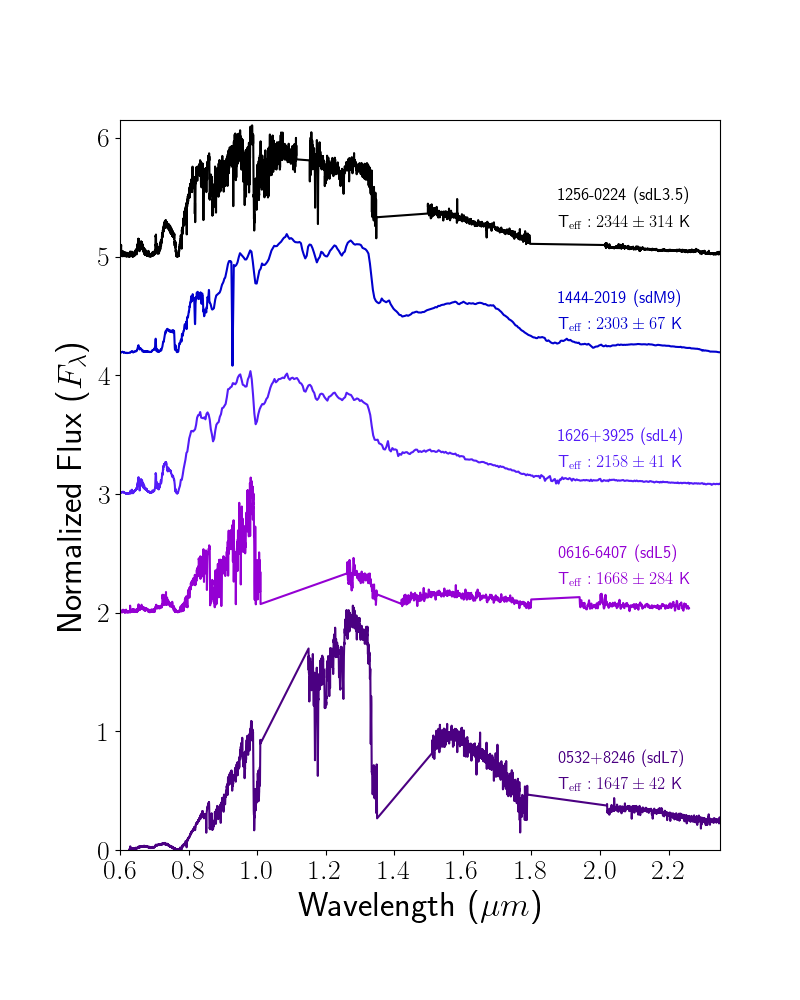
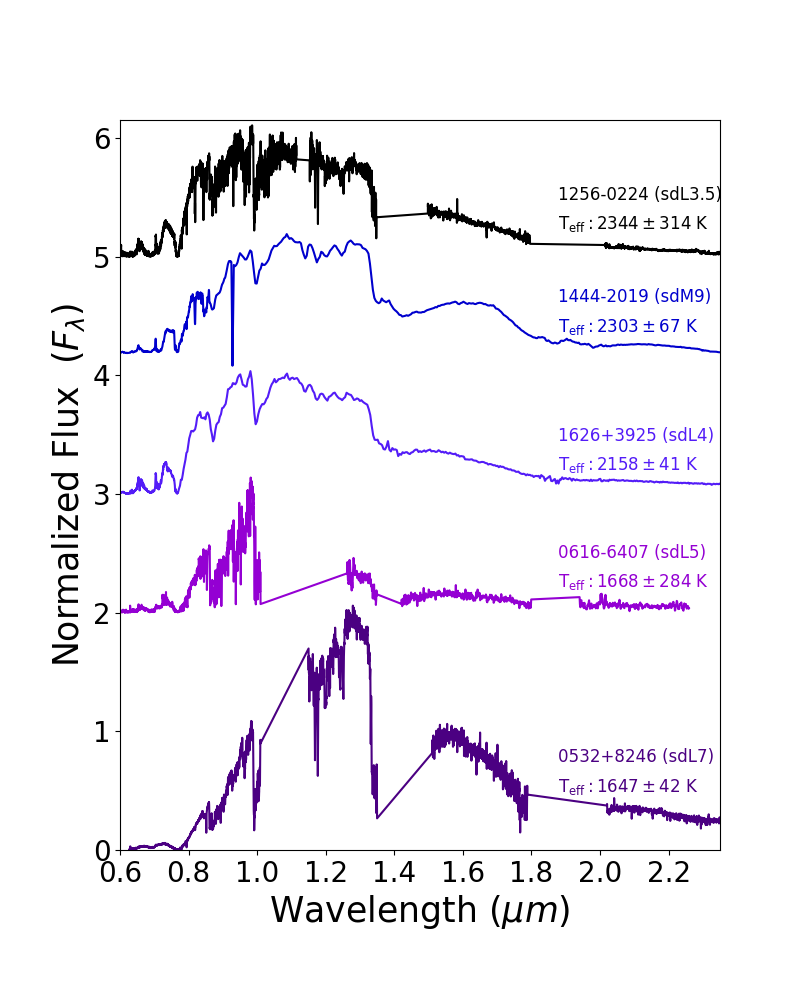
Remade full spectra and red optical with new teffs.

diff --git a/Subdwarfs_redoptical.py b/Subdwarfs_redoptical.py
@@ -78,7 +78,7 @@ ax1 = fig.add_subplot(111)
 fig.set_size_inches(8, 11)  # to make sure proper size run entire code at once and change 8 to 6.45 to
 plt.gcf().subplots_adjust(bottom=0.15, left=0.15)
 plt.xlim([0.6, 0.9])
-plt.ylim([-0.05, 9.5])
+plt.ylim([-0.05, 11])
 
 # ------ Axes Labels --------
 plt.xticks(fontsize=20)
@@ -88,12 +88,12 @@ plt.ylabel('Normalized Flux  ($F_\lambda$)', fontsize=25)
 
 # -------- Add data -----------
 ax1.plot(df_0532['w'], norm_df_0532, c='indigo')                                # sdL7 1647
-ax1.plot(df_0616['w'], norm_df_0616 + 1, c='darkviolet')                          # sdL5 ???
-ax1.plot(df_1626['w'], norm_df_1626 + 2, c='#531CF7')                               # sdL4 2158
+ax1.plot(df_0616['w'], norm_df_0616 + 1.35, c='darkviolet')                          # sdL5 1668
+ax1.plot(df_1626['w'], norm_df_1626 + 2.3, c='#531CF7')                               # sdL4 2158
 ax1.plot(df_1444['w'], norm_df_1444 + 3, c='mediumblue')                            # sdM9 2303
 ax1.plot(df_1256['w'], norm_df_1256 + 4, c='k')                                     # sdL3.5  2338
 ax1.plot(df_1013['w'], norm_df_1013 + 5, c='#015DF7')                               # sdM9.5 2457
-ax1.plot(df_LHS['w'], norm_df_LHS + 6, c='#01A1D6')                                 # sdM7 2824
+ax1.plot(df_LHS['w'], norm_df_LHS + 6, c='#01A1D6')                                 # sdM7 2748
 ax1.plot(df_1425['w'], norm_df_1425 + 7, c='#09D5D6')                               # sdM8 2822
 # ax1.plot(df_HD['w'], norm_df_HD + 7, c='#09D67E')                                 # sd--IRM9 2859
 ax1.plot(df_1610['w'], norm_df_1610 + 8, c='#04A57F')                               # sdM7 2878
@@ -104,91 +104,97 @@ ax1.plot(df_2036['w'], norm_df_2036 + 9, c='#F7BE0F')                           
 # ------- Label Sources -------------
 ax1.text(0, 0.04, '0532+8246 (sdL7) T$_\mathrm{eff}: 1647 \pm 42$ K ', transform=ax1.transAxes, color='indigo',
          fontsize=12)
-ax1.text(0, 0.16, '0616-6407 (sdL5) T$_\mathrm{eff}: 1668 \pm 284$ K ', transform=ax1.transAxes, color='darkviolet',
+ax1.text(0, 0.175, '0616-6407 (sdL5) T$_\mathrm{eff}: 1668 \pm 284$ K ', transform=ax1.transAxes, color='darkviolet',
          fontsize=12)
-ax1.text(0, 0.27, '1626+3925 (sdL4) T$_\mathrm{eff}: 2158 \pm 41$ K', transform=ax1.transAxes, color='#531CF7',
+ax1.text(0, 0.26, '1626+3925 (sdL4) T$_\mathrm{eff}: 2158 \pm 41$ K', transform=ax1.transAxes, color='#531CF7',
          fontsize=12)
-ax1.text(0, 0.39, '1444-2019 (sdM9) T$_\mathrm{eff}: 2303 \pm 67$ K', transform=ax1.transAxes, color='mediumblue',
+ax1.text(0, 0.34, '1444-2019 (sdM9) T$_\mathrm{eff}: 2303 \pm 67$ K', transform=ax1.transAxes, color='mediumblue',
          fontsize=12)
-ax1.text(0, 0.48, '1256-0224 (sdL3.5) T$_\mathrm{eff}: 2344 \pm 314$ K', transform=ax1.transAxes, color='k',
+ax1.text(0, 0.42, '1256-0224 (sdL3.5) T$_\mathrm{eff}: 2344 \pm 314$ K', transform=ax1.transAxes, color='k',
          fontsize=12)
-ax1.text(0, 0.6, '1013-1356 (sdM9.5) T$_\mathrm{eff}: 2457 \pm 124$ K', transform=ax1.transAxes, color='#015DF7',
+ax1.text(0, 0.52, '1013-1356 (sdM9.5) T$_\mathrm{eff}: 2457 \pm 124$ K', transform=ax1.transAxes, color='#015DF7',
          fontsize=12)
-ax1.text(0, 0.77, 'LHS 377 (sdM7) T$_\mathrm{eff}: 2824 \pm 37$ K', transform=ax1.transAxes, color='#01A1D6',
+ax1.text(0, 0.615, 'LHS 377 (sdM7) T$_\mathrm{eff}: 2748 \pm 36$ K', transform=ax1.transAxes, color='#01A1D6',
          fontsize=12)
-ax1.text(0, 0.82, '1610-0040 (sdM7) T$_\mathrm{eff}: 2878 \pm 20$ K', transform=ax1.transAxes, color='#04A57F',
+ax1.text(0, 0.71, '1425+7102 (sdM8) T$_\mathrm{eff}: 2822 \pm 60$ K', transform=ax1.transAxes, color='#09D5D6',
          fontsize=12)
-ax1.text(0, 0.92, '2036+5059 (sdM7.5) T$_\mathrm{eff}: 3021 \pm 102$ K', transform=ax1.transAxes, color='#F7BE0F',
+ax1.text(0, 0.79, '1610-0040 (sdM7) T$_\mathrm{eff}: 2878 \pm 20$ K', transform=ax1.transAxes, color='#04A57F',
+         fontsize=12)
+ax1.text(0, 0.97, '2036+5059 (sdM7.5) T$_\mathrm{eff}: 3021 \pm 102$ K', transform=ax1.transAxes, color='#F7BE0F',
          fontsize=12)
 
 # ---- Label Features ------
 CaH2 = pd.DataFrame()
 CaH2['x'] = [0.635, 0.64]
-CaH2['y'] = [6.65, 6.65]
+CaH2['y'] = [9.5, 9.5]
 ax1.plot(CaH2['x'], CaH2['y'], color='k')
 CaHd2 = pd.DataFrame()
 CaHd2['x'] = [0.635, 0.635]
-CaHd2['y'] = [6.45, 6.65]
+CaHd2['y'] = [9.3, 9.5]
 ax1.plot(CaHd2['x'], CaHd2['y'], color='k')
-ax1.text(0.11, 0.705, 'CaH', transform=ax1.transAxes, color='k', fontsize=12)
+ax1.annotate('CaH', xy=(0.63, 9.55), color='k', fontsize=12)
 
 CaI = pd.DataFrame()
-CaI['x'] = [0.658, 0.658]
-CaI['y'] = [6.5, 6.65]
+CaI['x'] = [0.657, 0.657]
+CaI['y'] = [9.4, 9.55]
 ax1.plot(CaI['x'], CaI['y'], color='k')
-ax1.text(0.17, 0.705, 'Ca$\,$I', transform=ax1.transAxes, color='k', fontsize=12)
+ax1.annotate('Ca$\,$I', xy=(0.651, 9.6), color='k', fontsize=12)
 
 TiO2 = pd.DataFrame()
 TiO2['x'] = [0.658, 0.685]
-TiO2['y'] = [6.9, 6.9]
+TiO2['y'] = [10, 10]
 ax1.plot(TiO2['x'], TiO2['y'], color='k')
-ax1.text(0.223, 0.73, 'TiO', transform=ax1.transAxes, color='k', fontsize=12)
+ax1.annotate('TiO', xy=(0.665, 10.05), color='k', fontsize=12)
 
 CaH = pd.DataFrame()
 CaH['x'] = [0.676, 0.705]
-CaH['y'] = [6.65, 6.65]
+CaH['y'] = [9.55, 9.55]
 ax1.plot(CaH['x'], CaH['y'], color='k')
 CaHd = pd.DataFrame()
 CaHd['x'] = [0.676, 0.676]
-CaHd['y'] = [6.45, 6.65]
+CaHd['y'] = [9.3, 9.55]
 ax1.plot(CaHd['x'], CaHd['y'], color='k')
-ax1.text(0.27, 0.705, 'CaH', transform=ax1.transAxes, color='k', fontsize=12)
+ax1.annotate('CaH', xy=(0.675, 9.56), color='k', fontsize=12)
 
 TiO = pd.DataFrame()
 TiO['x'] = [0.705, 0.72]
-TiO['y'] = [6.75, 6.755]
+TiO['y'] = [9.75, 9.755]
 ax1.plot(TiO['x'], TiO['y'], color='k')
 TiOd = pd.DataFrame()
 TiOd['x'] = [0.705, 0.705]
-TiOd['y'] = [6.61, 6.75]
+TiOd['y'] = [9.61, 9.75]
 ax1.plot(TiOd['x'], TiOd['y'], color='k')
-ax1.text(0.36, 0.715, 'TiO', transform=ax1.transAxes, color='k', fontsize=12)
+ax1.annotate('TiO', xy=(0.704, 9.8), color='k', fontsize=12)
 
 KII = pd.DataFrame()
 KII['x'] = [0.767, 0.767]
-KII['y'] = [6.7, 7]
+KII['y'] = [9.7, 10]
 ax1.plot(KII['x'], KII['y'], color='k')
-ax1.text(0.54, 0.75, 'K$\,$I', transform=ax1.transAxes, color='k', fontsize=12)
+ax1.annotate('K$\,$I', xy=(0.761, 10.065), color='k', fontsize=12)
 
 Rb1 = pd.DataFrame()
 Rb1['x'] = [0.78, 0.78]
 Rb1['y'] = [4.4, 4.7]
 ax1.plot(Rb1['x'], Rb1['y'], color='k')
-ax1.text(0.58, 0.5, 'Rb$\,$I', transform=ax1.transAxes, color='k', fontsize=12)
+ax1.annotate('Rb$\,$I', xy=(0.77, 4.75), color='k', fontsize=12)
 
 Rb = pd.DataFrame()
 Rb['x'] = [0.795, 0.795]
-Rb['y'] = [5.3, 5.5]
+Rb['y'] = [10, 10.3]
 ax1.plot(Rb['x'], Rb['y'], color='k')
-ax1.text(0.62, 0.53, 'Rb$\,$I', transform=ax1.transAxes, color='k', fontsize=12)
+ax1.annotate('Rb$\,$I', xy=(0.79, 10.35), color='k', fontsize=12)
 
-ax1.text(0.71, 0.36, 'NaI', transform=ax1.transAxes, color='k', fontsize=12)
+NaI = pd.DataFrame()
+NaI['x'] = [0.818, 0.818]
+NaI['y'] = [10.1, 10.5]
+ax1.plot(NaI['x'], NaI['y'], color='k')
+ax1.annotate('NaI', xy=(0.81, 10.55), color='k', fontsize=12)
 
 TiI = pd.DataFrame()
 TiI['x'] = [0.844, 0.844]
-TiI['y'] = [7.4, 7.6]
+TiI['y'] = [9.4, 9.6]
 ax1.plot(TiI['x'], TiI['y'], color='k')
-ax1.text(0.79, 0.76, 'Ti$\,$I', transform=ax1.transAxes, color='k', fontsize=12)
+ax1.annotate('Ti$\,$I', xy=(0.836, 9.1), color='k', fontsize=12)
 
 CrH = pd.DataFrame()
 CrH['x'] = [0.86, 0.865]
@@ -196,9 +202,9 @@ CrH['y'] = [5.4, 5.4]
 ax1.plot(CrH['x'], CrH['y'], color='k')
 CrHd = pd.DataFrame()
 CrHd['x'] = [0.86, 0.86]
-CrHd['y'] = [5.25, 5.4]
+CrHd['y'] = [5.2, 5.4]
 ax1.plot(CrHd['x'], CrHd['y'], color='k')
-ax1.text(0.84, 0.575, 'CrH', transform=ax1.transAxes, color='k', fontsize=12)
+ax1.annotate('CrH', xy=(0.85, 5.45), color='k', fontsize=12)
 
 FeH = pd.DataFrame()
 FeH['x'] = [0.867, 0.875]
@@ -208,6 +214,6 @@ FeH = pd.DataFrame()
 FeH['x'] = [0.867, 0.867]
 FeH['y'] = [5, 5.2]
 ax1.plot(FeH['x'], FeH['y'], color='k')
-ax1.text(0.89, 0.553, 'FeH', transform=ax1.transAxes, color='k', fontsize=12)
+ax1.annotate('FeH', xy=(0.865, 5.25), color='k', fontsize=12)
 
 plt.savefig('Plots/Subdwarfs_redoptical_split.png')

diff --git a/FullspectraSubdwarfs.py b/FullspectraSubdwarfs.py
@@ -6,7 +6,7 @@ import numpy as np
 # ------------------- Read in Spectra and Photometry files ---------------------------
 # ------------------------------------------------------------------------------------
 # Read  all in as pandas dataframes
-# None for 1256-1408, and problem for 0616
+# None for 1256-1408, and 1425 can't be normalized in this region, choosing to show HD instead.
 
 df_1256 = pd.read_csv('Data/correctpi1256-0224 (L3.5sd) SED.txt', sep=" ", comment='#', header=None,
                       names=["w", "f", "err"])
@@ -17,7 +17,7 @@ df_0616 = pd.read_csv('Data/0616-6407 (L5sd) SED.txt', sep=" ", comment='#', hea
 df_1013 = pd.read_csv('Data/1013-1356 (-) SED.txt', sep=" ", comment='#', header=None, names=["w", "f", "err"])
 # df_125614 = pd.read_csv('', sep=" ", comment='#', header=None, names=["w", "f", "err"])
 df_HD = pd.read_csv('Data/HD114762B (M9sd) SED.txt', sep=" ", comment='#', header=None, names=["w", "f", "err"])
-df_1425 = pd.read_csv('Data/1425+7102 (M8sd) SED.txt', sep=" ", comment='#', header=None, names=["w", "f", "err"])
+# df_1425 = pd.read_csv('Data/1425+7102 (M8sd) SED.txt', sep=" ", comment='#', header=None, names=["w", "f", "err"])
 df_LHS = pd.read_csv('Data/1439+1839 (M7sd) SED.txt', sep=" ", comment='#', header=None, names=["w", "f", "err"])
 df_1444 = pd.read_csv('Data/1444-2019 (M9sd) SED.txt', sep=" ", comment='#', header=None, names=["w", "f", "err"])
 df_1610 = pd.read_csv('Data/1610-0040 (M7sd) SED.txt', sep=" ", comment='#', header=None, names=["w", "f", "err"])
@@ -28,9 +28,6 @@ df_2036 = pd.read_csv('Data/2036+5059 (M7.5sd) SED.txt', sep=" ", comment='#', h
 # ---------------------- Remove Tails ------------------------------------------------
 # -------------------------------------------------------------------------------------
 df_HD = df_HD[(df_HD['w'] > 0.91) & (df_HD['w'] <= 3)]
-
-# Trim connecting line between opt and MIR
-df_1425= df_1425[(df_1425['w'] <= 0.92)]
 
 # -------------------------------------------------------------------------------------
 # --------- Normalize the spectra to same as before for 1256 --------------------------
@@ -57,8 +54,8 @@ norm_df_1013 = df_1013['f']/(np.average(norm_region_1013['f']))
 norm_region_LHS = df_LHS[(df_LHS['w'] >= 0.98) & (df_LHS['w'] <= 0.988)]
 norm_df_LHS = df_LHS['f']/(np.average(norm_region_LHS['f']))
 
-norm_region_1425 = df_1425[(df_1425['w'] >= 0.90) & (df_1425['w'] <= 0.91)]
-norm_df_1425 = df_1425['f']/(np.average(norm_region_1425['f']))
+# norm_region_1425 = df_1425[(df_1425['w'] >= 0.90) & (df_1425['w'] <= 0.91)] region that works fro 1425 but not HD
+# norm_df_1425 = df_1425['f']/(np.average(norm_region_1425['f']))
 
 norm_region_1610 = df_1610[(df_1610['w'] >= 0.98) & (df_1610['w'] <= 0.988)]
 norm_df_1610 = df_1610['f']/(np.average(norm_region_1610['f']))
@@ -93,16 +90,16 @@ plt.ylabel('Normalized Flux  ($F_\lambda$)', fontsize=25)
 
 # -------- Add data -----------
 ax1.plot(df_0532['w'], norm_df_0532, c='indigo')                                # sdL7 1647
-ax1.plot(df_0616['w'], norm_df_0616 + 2, c='darkviolet')                        # sdL5 ???
-ax1.plot(df_1626['w'], norm_df_1626 + 3, c='#531CF7')                         # sdL4 2158
+ax1.plot(df_0616['w'], norm_df_0616 + 2, c='darkviolet')                        # sdL5 1668
+ax1.plot(df_1626['w'], norm_df_1626 + 3, c='#531CF7')                           # sdL4 2158
 ax1.plot(df_1444['w'], norm_df_1444 + 4, c='mediumblue')                        # sdM9 2303
-ax1.plot(df_1256['w'], norm_df_1256 + 5, c='k')                                 # sdL3.5  2338
+ax1.plot(df_1256['w'], norm_df_1256 + 5, c='k')                                 # sdL3.5  2344
 # ax1.plot(df_1013['w'], norm_df_1013 + 5, c='#015DF7')                         # sdM9.5 2457
 # ax1.plot(df_LHS['w'], norm_df_LHS + 6, c='#01A1D6')                           # sdM7 2748
-# # ax1.plot(df_1425['w'], norm_df_1425, c='#09D5D6')                             # sdM8 2823      only MIR spectra
-# ax1.plot(df_1610['w'], norm_df_1610 + 7, c='#04A57F')                           # sdM7 2852
+# # ax1.plot(df_1425['w'], norm_df_1425, c='#09D5D6')                           # sdM8 2822      only MIR spectra
 # ax1.plot(df_HD['w'], norm_df_HD + 8, c='#09D67E')                             # sd--IRM9 2859
-# ax1.plot(df_2036['w'], norm_df_2036 + 9, c='#F7BE0F')                         # sdM7.5 3049
+# ax1.plot(df_1610['w'], norm_df_1610 + 7, c='#04A57F')                         # sdM7 2878
+# ax1.plot(df_2036['w'], norm_df_2036 + 9, c='#F7BE0F')                         # sdM7.5 3021
 # # ax1.plot(df_125614['w'], norm_df_125614, c='#C56201')                         # sdM8
 
 # ------- Label Sources -------------
@@ -135,24 +132,24 @@ plt.xlabel('Wavelength ($\mu m$)', fontsize=25)
 plt.ylabel('Normalized Flux  ($F_\lambda$)', fontsize=25)
 
 # -------- Add data -----------
-ax1.plot(df_1013['w'], norm_df_1013 , c='#015DF7')                         # sdM9.5 2457
-ax1.plot(df_LHS['w'], norm_df_LHS + 1, c='#01A1D6')                           # sdM7 2748
-ax1.plot(df_1425['w'], norm_df_1425 +2, c='#09D5D6')                             # sdM8 2822 ---
-ax1.plot(df_HD['w'], norm_df_HD + 3, c='#09D67E')                             # sd--IRM9 2859
-ax1.plot(df_1610['w'], norm_df_1610 + 2, c='#04A57F')                           # sdM7 2878
-ax1.plot(df_2036['w'], norm_df_2036 + 4, c='#F7BE0F')                         # sdM7.5 3021
+ax1.plot(df_1013['w'], norm_df_1013, c='#015DF7')                         # sdM9.5 2457
+ax1.plot(df_LHS['w'], norm_df_LHS + 1, c='#01A1D6')                       # sdM7 2748
+# ax1.plot(df_1425['w'], norm_df_1425 + 2, c='#09D5D6')                   # sdM8 2822
+ax1.plot(df_HD['w'], norm_df_HD + 2, c='#09D67E')                         # sd--IRM9 2859
+ax1.plot(df_1610['w'], norm_df_1610 + 3, c='#04A57F')                     # sdM7 2878
+ax1.plot(df_2036['w'], norm_df_2036 + 4, c='#F7BE0F')                     # sdM7.5 3021
 # ax1.plot(df_125614['w'], norm_df_125614, c='#C56201')                         # sdM8
 
 # ------- Label Sources -------------
 ax1.text(0.72, 0.11, '1013-1356 (sdM9.5)', transform=ax1.transAxes, color='#015DF7', fontsize=12)
 ax1.text(0.72, 0.07, 'T$_\mathrm{eff}: 2457 \pm 124$ K', transform=ax1.transAxes, color='#015DF7', fontsize=12)
-ax1.text(0.72, 0.3, 'LHS 377 (sdM7)', transform=ax1.transAxes, color='#01A1D6',  fontsize=12)
-ax1.text(0.72, 0.26, 'T$_\mathrm{eff}: 2748 \pm 36$ K', transform=ax1.transAxes, color='#01A1D6', fontsize=12)
-ax1.text(0.72, 0.54, '1610-0040 (sdM7)', transform=ax1.transAxes, color='#04A57F', fontsize=12)
-ax1.text(0.72, 0.5, 'T$_\mathrm{eff}: 2850 \pm 20$ K', transform=ax1.transAxes, color='#04A57F', fontsize=12)
-ax1.text(0.7, 0.74, 'HD114762B (d/sdM9)', transform=ax1.transAxes, color='#09D67E', fontsize=12)
-ax1.text(0.72, 0.7, 'T$_\mathrm{eff}: 2859 \pm 50$ K', transform=ax1.transAxes, color='#09D67E', fontsize=12)
+ax1.text(0.72, 0.31, 'LHS 377 (sdM7)', transform=ax1.transAxes, color='#01A1D6',  fontsize=12)
+ax1.text(0.72, 0.27, 'T$_\mathrm{eff}: 2748 \pm 36$ K', transform=ax1.transAxes, color='#01A1D6', fontsize=12)
+ax1.text(0.7, 0.55, 'HD114762B (d/sdM9)', transform=ax1.transAxes, color='#09D67E', fontsize=12)
+ax1.text(0.72, 0.51, 'T$_\mathrm{eff}: 2859 \pm 50$ K', transform=ax1.transAxes, color='#09D67E', fontsize=12)
+ax1.text(0.72, 0.74, '1610-0040 (sdM7)', transform=ax1.transAxes, color='#04A57F', fontsize=12)
+ax1.text(0.72, 0.7, 'T$_\mathrm{eff}: 2878 \pm 20$ K', transform=ax1.transAxes, color='#04A57F', fontsize=12)
 ax1.text(0.7, 0.9, '2036+5059 (sdM7.5)', transform=ax1.transAxes, color='#F7BE0F', fontsize=12)
-ax1.text(0.72, 0.86, 'T$_\mathrm{eff}: 3049 \pm 108$ K', transform=ax1.transAxes, color='#F7BE0F',fontsize=12)
+ax1.text(0.72, 0.86, 'T$_\mathrm{eff}: 3021 \pm 102$ K', transform=ax1.transAxes, color='#F7BE0F',fontsize=12)
 
 plt.savefig('Plots/Subdwarfs_firstpannel.png')
